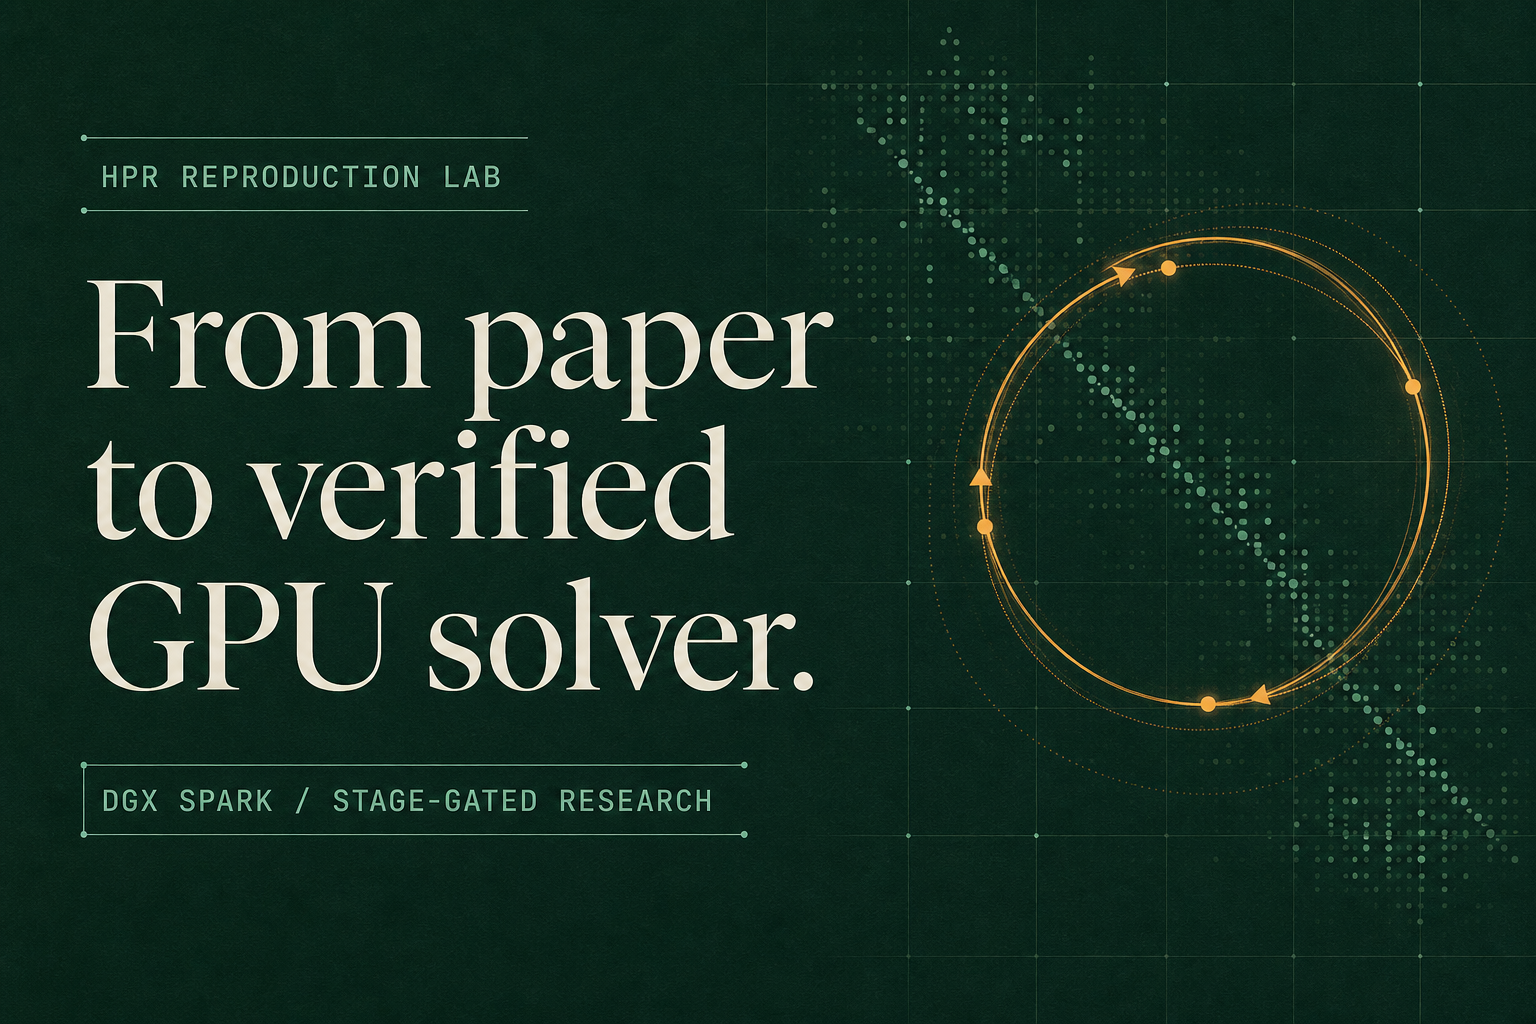
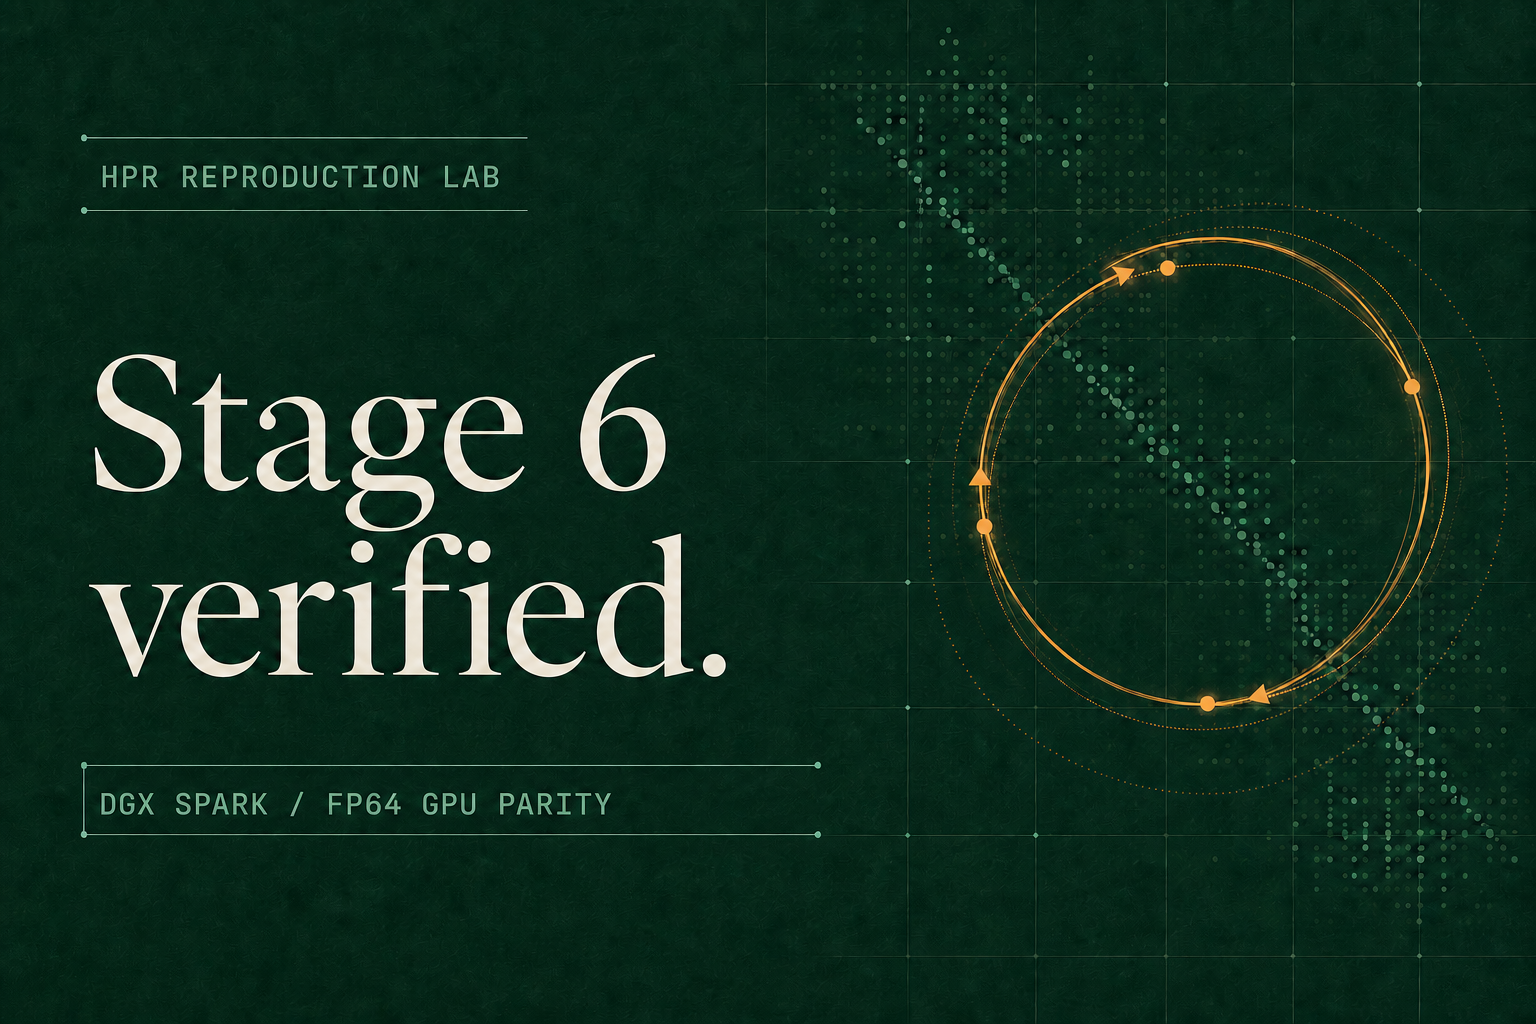
Refresh Stage 6 dashboard preview

diff --git a/dashboard/app/layout.tsx b/dashboard/app/layout.tsx
@@ -12,7 +12,7 @@ export async function generateMetadata(): Promise<Metadata> {
   const protocol =
     requestHeaders.get("x-forwarded-proto") ?? (host.startsWith("localhost") ? "http" : "https");
   const metadataBase = new URL(`${protocol}://${host}`);
-  const imageUrl = new URL("/og-stage6.png", metadataBase).toString();
+  const imageUrl = new URL("/og.png", metadataBase).toString();
 
   return {
     metadataBase,
